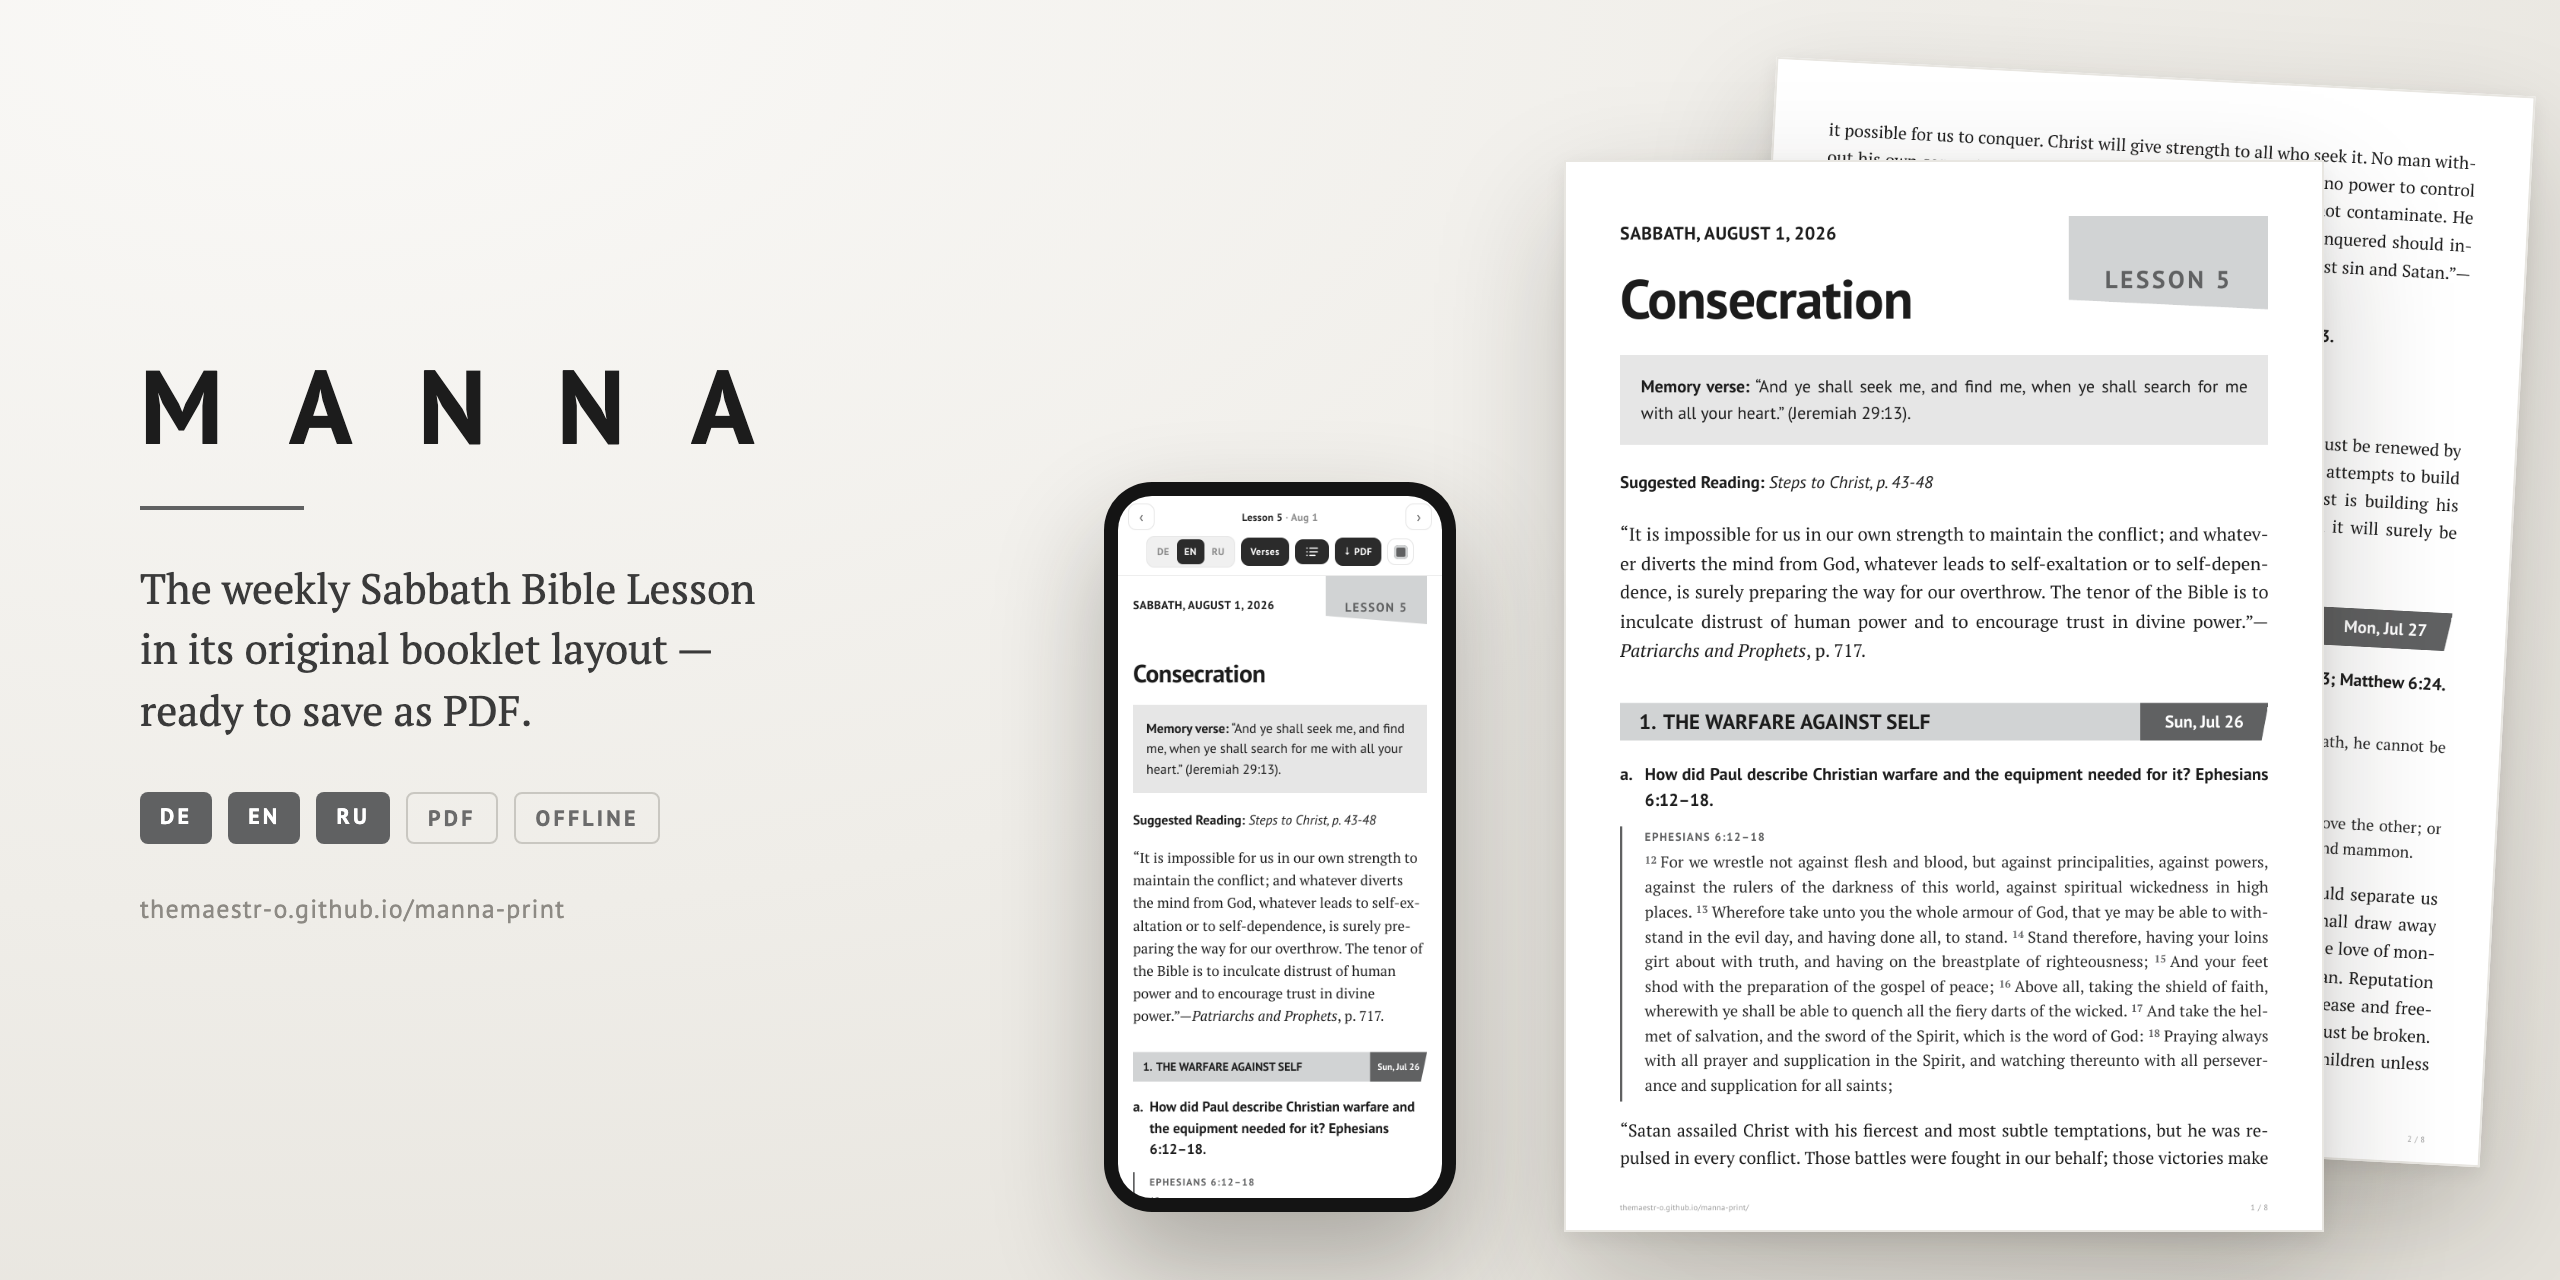
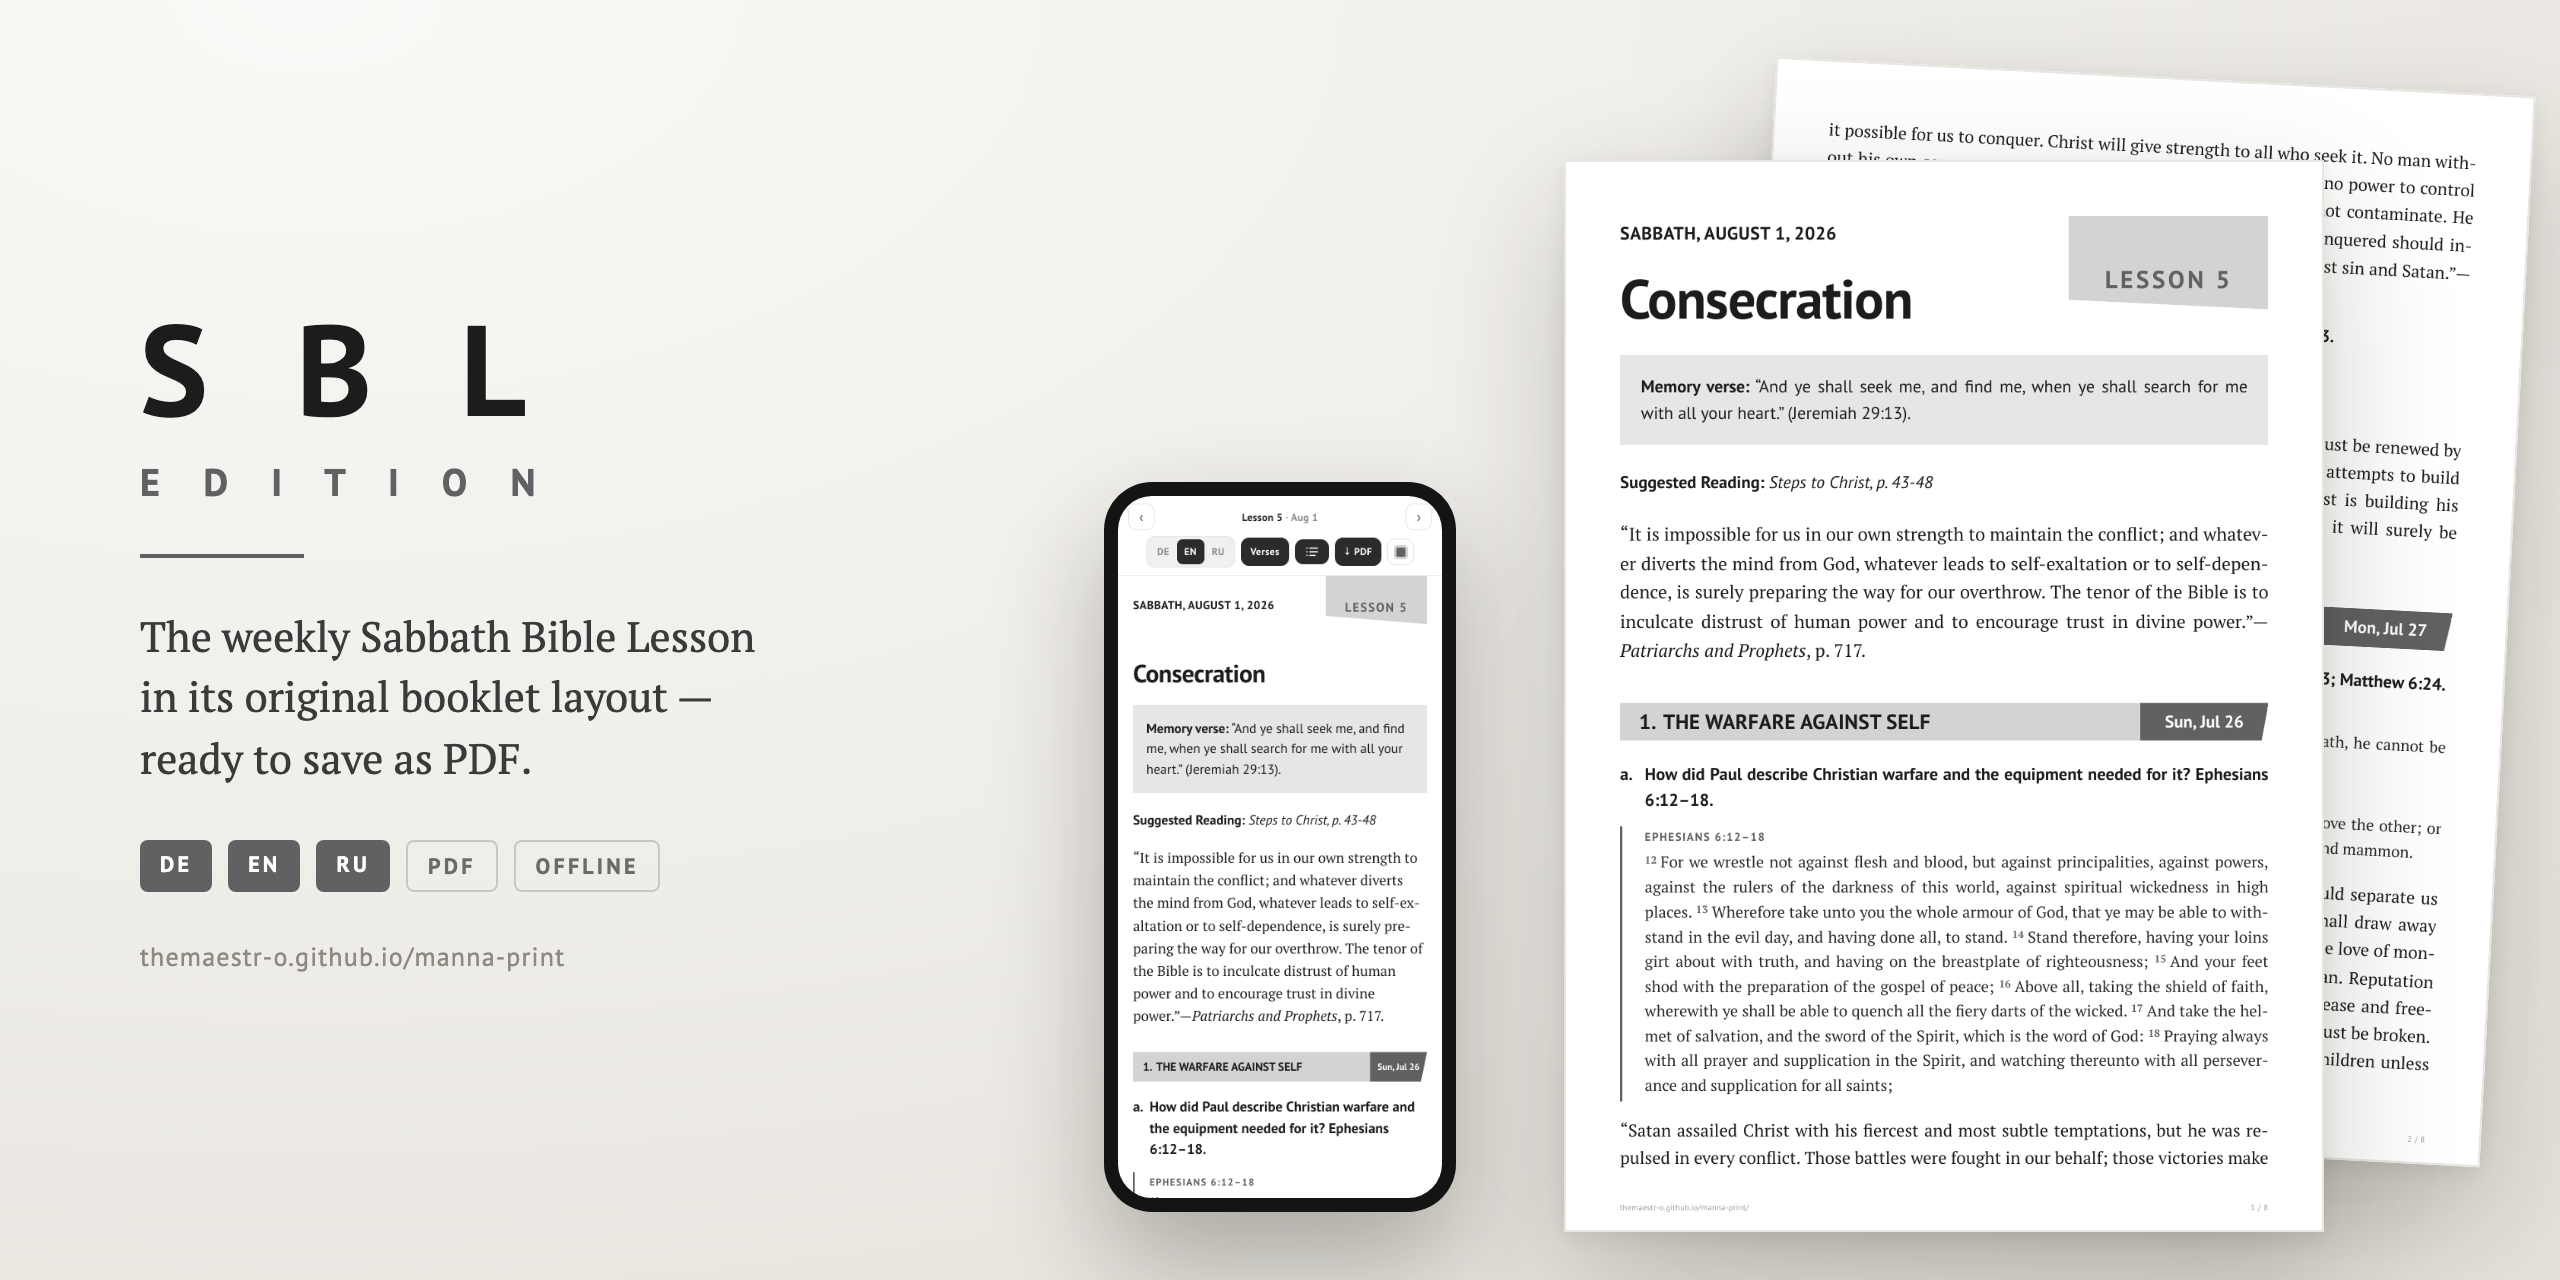
rename to SBL Edition
"Manna" said nothing about what this is; the project is not a new work but
the Sabbath Bible Lesson itself, set for screen and PDF. The name now says
that, and "an independent edition" sits under it so nobody reads the page as
an official SDARM publication.

Changed: page title and meta description, the line in the colophon, the
service worker header, the README and the cover art (the wordmark is now
S B L / E D I T I O N over the same scene).

Deliberately unchanged: the repository name and every URL. The live address
is already in people's hands.

Changed region(s): [[0.0312, 0.4375, 0.2812, 0.75], [0.0312, 0.25, 0.3125, 0.3438], [0.0625, 0.375, 0.125, 0.4062]]

diff --git a/index.html b/index.html
@@ -3,8 +3,8 @@
 <head>
 <meta charset="utf-8">
 <meta name="viewport" content="width=device-width, initial-scale=1">
-<title>MANNA — Sabbath Bible Lesson</title>
-<meta name="description" content="The weekly Sabbath Bible Lesson in the original booklet layout.">
+<title>SBL Edition — Sabbath Bible Lesson</title>
+<meta name="description" content="SBL Edition — the weekly Sabbath Bible Lesson in its original booklet layout, in German, English and Russian, ready to save as PDF. An independent edition.">
 <link rel="preconnect" href="https://fonts.googleapis.com">
 <link rel="preconnect" href="https://fonts.gstatic.com" crossorigin>
 <link href="https://fonts.googleapis.com/css2?family=PT+Sans:ital,wght@0,400;0,700;1,400;1,700&family=PT+Serif:ital,wght@0,400;0,700;1,400;1,700&display=swap" rel="stylesheet">
@@ -231,7 +231,7 @@ footer a:hover{color:var(--gray-dk);border-bottom-color:var(--gray-dk)}
 <div id="sheets"><div class="page"><div class="msg">&hellip;</div></div></div>
 <footer>
   <div class="frule"></div>
-  <div class="fkind">Sabbath Bible Lesson &middot; original booklet layout</div>
+  <div class="fkind">SBL Edition &middot; Sabbath Bible Lesson &middot; original booklet layout</div>
   <div class="fnote">Content &copy; <a href="https://sdarm.org" target="_blank" rel="noopener">Seventh Day Adventist Reform Movement</a><br>
     Bible text from SDARM editions &middot; Luther 1912 &middot; King James &middot; Синодальный</div>
   <div class="fset">Set in PT Serif &amp; PT Sans &middot; built by <a href="https://github.com/TheMaestr-o" target="_blank" rel="noopener">Sergio</a>

diff --git a/sw.js b/sw.js
@@ -1,4 +1,4 @@
-/* MANNA print — cache once, then instant (and offline). */
+/* SBL Edition — cache once, then instant (and offline). */
 const SHELL = "mannaprint-shell-v1";
 const DATA  = "mannaprint-data-v1";
 const SHELL_FILES = ["index.html"];

diff --git a/README.md b/README.md
@@ -1,8 +1,10 @@
 <div align="center">
 
-# M A N N A
+# S B L&nbsp;&nbsp;&nbsp;E D I T I O N
 
 **The weekly Sabbath Bible Lesson in its original booklet layout — ready to save as PDF.**
+
+<sub>An independent edition of the SDARM Sabbath Bible Lessons</sub>
 
 <sub>D e s i g n e d&nbsp;&nbsp;b y&nbsp;&nbsp;S e r g i o</sub>
 
@@ -17,7 +19,7 @@
 
 <br>
 
-<img src="screenshots/cover.png" alt="MANNA — the weekly Sabbath Bible Lesson of the Seventh Day Adventist Reform Movement in the original printed booklet layout, in German, English and Russian, ready to save as PDF">
+<img src="screenshots/cover.png" alt="SBL Edition — the weekly Sabbath Bible Lesson of the Seventh Day Adventist Reform Movement in the original printed booklet layout, in German, English and Russian, ready to save as PDF">
 
 <br><br>
 
@@ -120,13 +122,13 @@ No build step, no framework, no dependencies — one HTML file and a service wor
 
 <br>
 
-## The other MANNA
+## Three ways to the same lesson
 
 | | |
 |---|---|
+| **SBL Edition** — this one | **One** language, exact booklet layout, made for the **PDF** |
 | [**manna**](https://github.com/TheMaestr-o/manna) | The same lesson in **two languages side by side**, for reading and comparing translations |
 | [**MANNA-Photoshop-Lessons**](https://github.com/TheMaestr-o/MANNA-Photoshop-Lessons) | The daily lesson as a panel **inside Adobe Photoshop** |
-| **this one** | **One** language, exact booklet layout, made for the **PDF** |
 
 <br>
 
